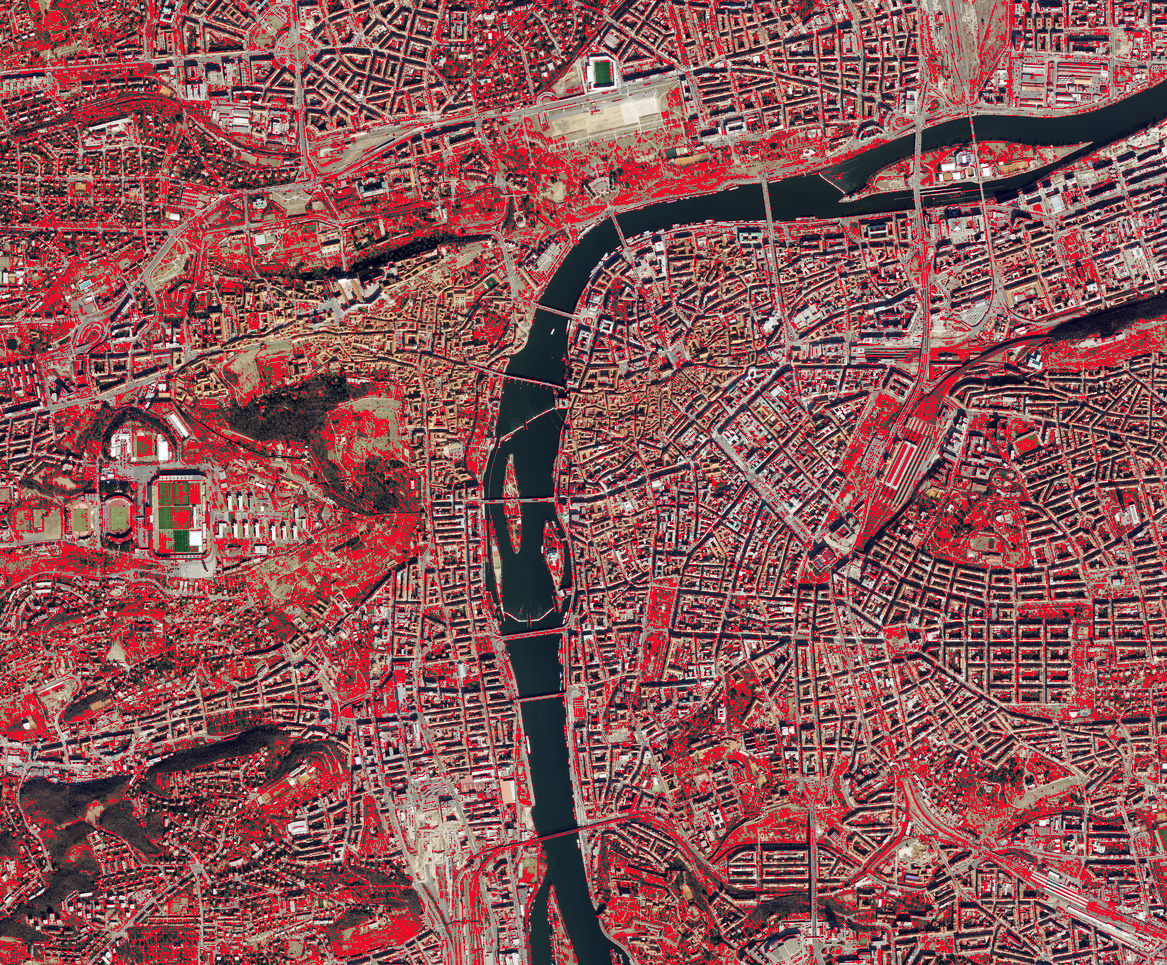
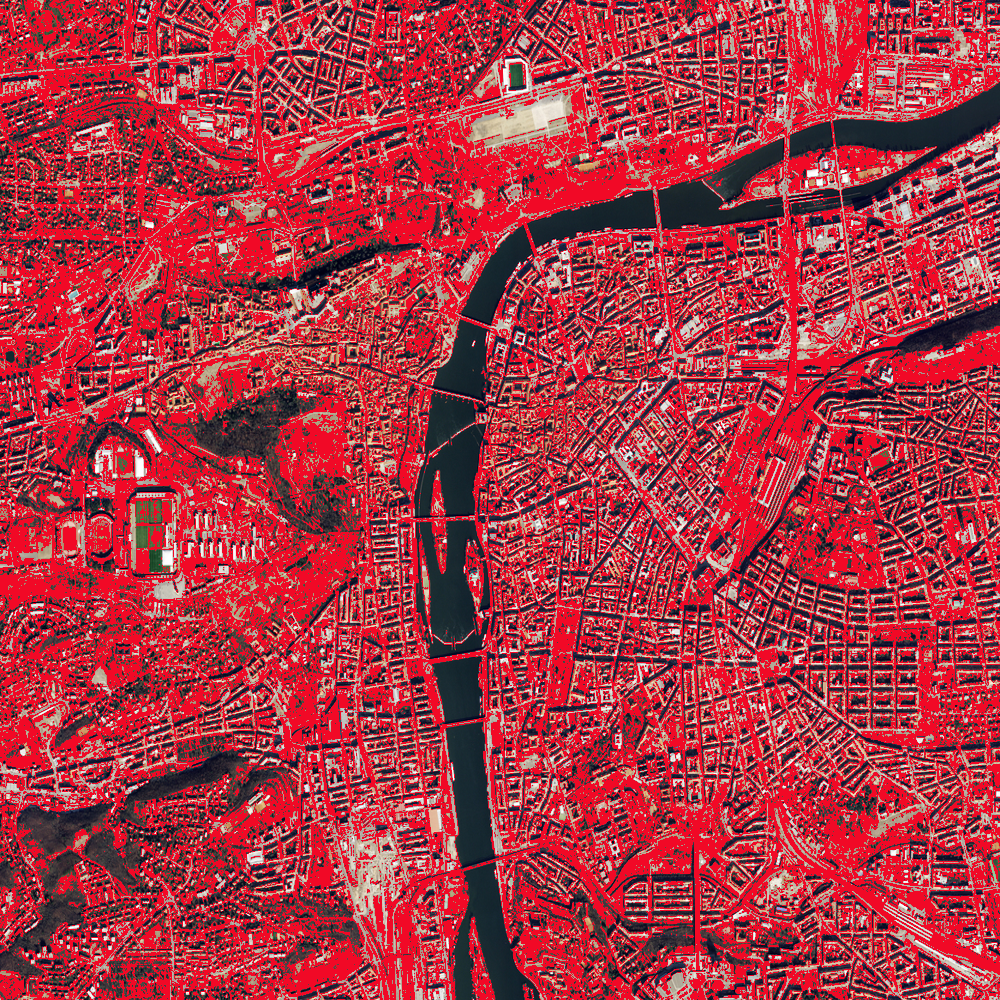
This is a combination of 6 commits.
Image_Explorer 3 binary search implementation and more images

    Image_Explorer 5 adding time and while loop

    Image_Explorer 6 Final Commit

    6.2 (#8)

    * Assignment 6.7

    * 6.2

    Remove performance analysis task from project checklist

    Removed performance analysis requirement from README.

    deleted images

diff --git a/6.7/Image_Explorer.py b/6.7/Image_Explorer.py
@@ -2,32 +2,42 @@
 # Author: jacob Joe
 # Date: 11/26/2025
 
-# Goal: Create a program that will analyze satellite imagery and identify man-made structures in the images
+# Goal: Create a program that will analyze satellite imagery and identify man-made structures in the images and give a percentage of the area it takes up
 
 import time
 
 t0 = time.time()
 
 from PIL import Image
-
-t1 = time.time()
+Image.MAX_IMAGE_PIXELS = None # Disables limit for the maximum number of pixels
+t1 = time.time() # Time up to after image imported
 
 # This function accepts pixel data and returns an output of true if it matches the definition of
 # buildings and false if it doesn't 
 
 def is_target_feature(r, g, b):
-    if 80 < r < 130 and 80 < g < 140 and 70 < b < 140:
-        return True
-    return False
+    if 70 < r < 160 and 70 < g < 160 and 70 < b < 160 or 170 < r < 190 and 100 < g < 150 and 100 < b < 150:
+        return "is_target_feature"
+    return "other"
+    
 
 mater_list = []
 
 # Opens image file
-images = ["6.7/spot-6-vancouver-canada.jpg", "6.7/Benin-Nigeria.jpg", "6.7/Reese-Michigan.jpg", "6.7/Earth_from_Space_Prague.jpg"]
+images = ["6.7/spot-6-vancouver-canada.jpg", 
+          "6.7/Benin-Nigeria.jpg", 
+          "6.7/Reese-Michigan.jpg",
+          "6.7/Earth_from_Space_Prague.jpg",
+          "6.7/Bourget Airshow, France.jpg",
+          "6.7/Manhattan, New-York.jpg",   
+          "6.7/Kennedy Space Center.jpg",
+          "6.7/Bali, Indonesia.jpg",
+          "6.7/Dumont d'Urville Station.jpg",
+          "6.7/USS John C. Stennis in Marseille, France.jpg"]
 
 for i in range(len(images)):
-    image_output = Image.open(images[i])
-    file = Image.open(images[i])
+    file = Image.open(images[i]).resize((1000, 1000)) # resizes all images to same size for accurate calculations and faster processing
+    image_output = file
     sat_image = file.load()
 
     # Goes through all pixels
@@ -36,15 +46,11 @@ for i in range(len(images)):
 
     # Creates a list to store pixels
     is_target_feature_pixels = []
-    water_pixels = []
-    green_pixels = []
+    
 
     # Initialize counter for each colours pixels
     is_target_feature_count = 0
-    water_count = 0
-    green_count = 0
     
-    t2 = time.time()
 
     # Nested loops will go over pixels from the images and calculate the feature density score for each
     for x in range(width):
@@ -54,13 +60,13 @@ for i in range(len(images)):
             pixel_b = sat_image[x,y][2]
             
             # Counts the number of pixels in the target feature
-            if is_target_feature(pixel_r, pixel_g, pixel_b):
+            features = is_target_feature(pixel_r, pixel_g, pixel_b)
+            if features == "is_target_feature":
                 is_target_feature_count += 1
                 image_output.putpixel((x, y), (241, 9, 38))
 
-
     percent_is_target_feature = 100*is_target_feature_count/(width*height)
-    report = "The image is {:.2f} percent man-made structures.".format(percent_is_target_feature)
+    report = "{} is {:.2f} percent man-made structures.".format(images[i],percent_is_target_feature)
     print(report)
 
     image_output.save("{}_output.png".format(images[i]))
@@ -68,8 +74,14 @@ for i in range(len(images)):
 # Filename and score will be appended to a mater list 
     mater_list.append((images[i], percent_is_target_feature))
 # Time module will measure the time it takes to complete the loops
-
+t2 = time.time()
 # Outputs the time to three decimal places
+module_load = t1-t0
+loop = t2-t1
+total = t2-t0
+
+timing = "It took {:.3f}s to import PIL and {:.3f}s to loop which is {:.3f}s in total".format(module_load, loop, total)
+print(timing)
 
 # Selection Sort algorithm function will sort the master list based on feature density score from highest to lowest
 def sel_sort(mater_list):
@@ -82,5 +94,53 @@ def sel_sort(mater_list):
                 largest_index = j
         mater_list[i], mater_list[largest_index] = mater_list[largest_index], mater_list[i]
     return mater_list
-print(sel_sort(mater_list))
+
+# Output the top 5 results using list slicing
+sorted_list = sel_sort(mater_list)
+print(sorted_list[:5])
+
 # Binary Search algorithm function will sort through the list for a specific target score
+def bin_search(list_of_lists, query):
+    search_start_index = 0
+    search_end_index = len(list_of_lists)-1
+
+    while search_start_index <= search_end_index:
+        midpoint = (search_start_index+search_end_index)//2
+        if list_of_lists[midpoint][1] == query:
+            return list_of_lists[midpoint][0]
+        elif list_of_lists[midpoint][1] < query:
+            search_end_index = midpoint - 1
+        else:
+            search_start_index = midpoint + 1
+    return None 
+sorted_list = sel_sort(mater_list.copy())
+
+curious = True
+
+# User inputs specific target score of image they want to find
+specific_target_score = input("Input the number that represents the is_target_score of the image you want to find from the sorted list or just press enter to stop: ")
+# Outputs image name from binary search
+if specific_target_score == "":
+    print("Hasta la vista, baby")
+    curious = False
+else:
+    specific_target_score = float(specific_target_score)
+    print("Here is the image you are looking for: {}".format(bin_search(sorted_list, specific_target_score)))
+
+
+
+# While loop so user can keep on searching for images and stop whenever they want
+while curious:
+    next_search = input("Do you want to search for another image? (Y/N): ").lower()
+    if next_search == "y":
+        specific_target_score = input("Input the number that represents the is_target_score of the image you want to find from the sorted list: ")
+        if specific_target_score != float:
+            print("Invalid input. Make sure to input a number like 20.5313")
+        else:
+            specific_target_score = float(specific_target_score)
+            print("Here is the image you are looking for: {}".format(bin_search(sorted_list, specific_target_score)))
+    elif next_search == "n":
+        print("Don't have a good day, have a great day!")
+        curious = False
+    else:
+        print("Invalid input. Make sure to input Y or N.")

diff --git a/6.7/README.md b/6.7/README.md
@@ -6,13 +6,117 @@
 - From above, these features heavily contrast from natural and vegetated aras as they have very different colours
 - This should make it easy for the program to clearly distinct structures from its surrondings
 
-# Testing and Validation
-- Repeatedly tested and optimized is_target_feature until it gave optimal results
 
-# Code profiling
--
+# Feature Detection and Justification
+- Main goal is to identify most man-made structure ie builings, roads, bridges
+- The colours of man-made structures, vegetation and other features have a very different colour
+range which should make it easier to distinguish man-made structures from the rest
+- Identifying water, vegetation, clouds and other natural features was an optional goal
+but proved too difficult and complicated to implement consistently and effectively due
+to the different lighting conditions and colour pallete in each image
+- Most structures were grey so I went with "70 < r < 160 and 70 < g < 160 and 70 < b < 160" to identify
+light grey pixels, the most common colour of concrete and steel strcutures
+- However many other structures were brighter and more brown or red in colour from being made of brick such as the roofs of some buildings in Marseille, so I had to also include those colours "or 170 < r < 190 and 100 < g < 150 and 100 < b < 150" for is_target_feature
+- Should be able to identify a majority of structures and give a sense of how much of the area has been developed and used
+
+
+# Testing and Validation
+- Started testing with only a few images to analyze to give quicker feedback and simplify things
+- Repeatedly tested and optimized is_target_feature until it gave optimal results
+- Provided simple test cases for each functions
+
+- Test for Selection Sort Algorithm(Commit version 3):
+    Input: print(sel_sort(mater_list))
+    Expected Output: Sorted Mater List by highest to lowest density score
+    Actual Output: Sorted Mater List by highest to lowest density score
+
+- Test for Binary Search Algorithm(Commit version 3):
+    Input: print(bin_search(mater_list, 5))
+    Expected Output: Reese Michigan
+    Actual Output: Reese Michigan
+
+- Test for Binary Search Algorithm(Commit version 5):
+    Input: 14.1928
+    Input 2: Y
+    Input 3: 28.8751
+    Input 4: N
+
+    Expected Output: Here is the image you are looking for: 6.7/spot-6-vancouver-canada.jpg
+    Expected Output 2: Do you want to search for another image? (Y/N):
+    Expected Output 3: Here is the image you are looking for: 6.7/Bourget Airshow, France.jpg
+    Expected Output 4: Do you want to search for another image? (Y/N):
+    Expected Output 5: Have a nice day!:
+
+    Actual Output: Here is the image you are looking for: 6.7/spot-6-vancouver-canada.jpg
+    Actual Output 2: Do you want to search for another image? (Y/N):
+    Actual Output 3: Here is the image you are looking for: 6.7/Bourget Airshow, France.jpg
+    Actual Output 4: Do you want to search for another image? (Y/N):
+    Actual Output 5: Have a nice day!:
+
+- Test for Binary Search Algorithm(Commit version 5):
+    Input: 
+
+    Expected Output: -1
+
+    Actual Output: ValueError: could not convert string to float: ''
+
+- Test for Binary Search Algorithm(Commit version 6):
+    Input: 
+
+    Expected Output: Hasta la vista, baby
+
+    Actual Output: Hasta la vista, baby
+
+- Test for Binary Search Algorithm(Commit version 6):
+    Input: 20.5313
+    Input 2: fdhgfufh
+    Input 3: Y
+    Input 4: kfgjdsgfhs
+    Input 5: N
+
+    Expected Output: 6.7/Earth_from_Space_Prague.jpg
+    Expected Output 2: Do you want to search for another image? (Y/N):
+    Expected Output 3: Invalid input. Make sure to input Y or N.
+    Expected Output 4: Do you want to search for another image? (Y/N):
+    Expected Output 5: Input the number that represents the is_target_score of the image you want to find from the sorted list:
+    Expected Output 6: Invalid input. Make sure to input a number like 20.5313
+    Expected Output 7: Do you want to search for another image? (Y/N):
+    Expected Output 8: Don't have a good day, have a great day!
+
+    Actual Output: 6.7/Earth_from_Space_Prague.jpg
+    Actual Output 2: Do you want to search for another image? (Y/N):
+    Actual Output 3: Invalid input. Make sure to input Y or N.
+    Actual Output 4: Do you want to search for another image? (Y/N):
+    Actual Output 5: Input the number that represents the is_target_score of the image you want to find from the sorted list:
+    Actual Output 6: Invalid input. Make sure to input a number like 20.5313
+    Actual Output 7: Do you want to search for another image? (Y/N):
+    Actual Output 8: Don't have a good day, have a great day!
+
+
+# Performance analysis/Code Profiling
+- Noticed slow preformance from the start after importing multiple images
+- Likely due to the nested loops, since the number of operations grows quadratically O(n^2)
+- Some images were too large and could not import due to size limit
+- Resized images to 1000 by 1000 to optimize preformance and reduce the time needed
+- Used time module to calculate the time taken to process the images
+- Had to add "Image.MAX_IMAGE_PIXELS = None" line so hat I would be able to import some
+of the larger images
+- Outputed time as a human-readable report that displays the time it takes to import the image,
+complete the nested loop, and the total time to three decimal places.
+
 
 # Challenges faced
  - I took some time to wonder about what my program would do and kept on slightly changing the goals until I settled on finding the percentage
- of man-made structures in the images since I thought it would be easy to identify the objects from its surrondings.
- - 
+ of man-made structures in the images since I thought it would be easy to identify the objects from its surrondings
+ - Trying to find suitable images and information for project that meet the criteria and goals
+ - Optimization was a major challenge since most images were too large and it took some time to
+ find a solution to change the size of the images and remove the limit on the number of pixels allowed in the images
+ - Optimizing the is_target_feature function was the biggest challenge since I had to find a way to make it work as intended for all the images I used and a lot of the images had different lighting, colours, and unique features that made it challenging to create a solution that works for all of them
+
+
+ # Real world applications
+ - There are many usefull aplications for identifying land development as it can show underlying trends and how they play out
+ - It reveals how we are shaping the world and how it impacts the local environment 
+ - Data is usefull in planning sustainable development and might reveal any unforseen risks and consequences
+ - Many organizations, both government and private, heavily analyize land-use cover
+ 

diff --git a/6.7/PROJECT.md b/6.7/PROJECT.md
@@ -40,7 +40,7 @@ Using the new skills in units 5 and 6, you will implement a computer vision algo
 - [ ] Code clarity: use descriptive variable names unless they are standard loop indices (e.g. x, y) (2 pts)
 - [ ] Use of functions: structure the program using functions to organize it and reduce code duplication (2 pts)
 - [ ] Testing and robustness: include a section in your README describing testing done to ensure each of the tasks works as intended (1 pt)
-- [ ] Performance analysis: include a section in your README describing your code profiling: give an example of the report and discuss what parts of the program take the longest
+- [ ] ~~Performance analysis: include a section in your README describing your code profiling: give an example of the report and discuss what parts of the program take the longest~~
 - [ ] Challenges faced: include a section in your README describing at least one challenge faced and how you overcame it (2 pts)
 
 ### Version Control
